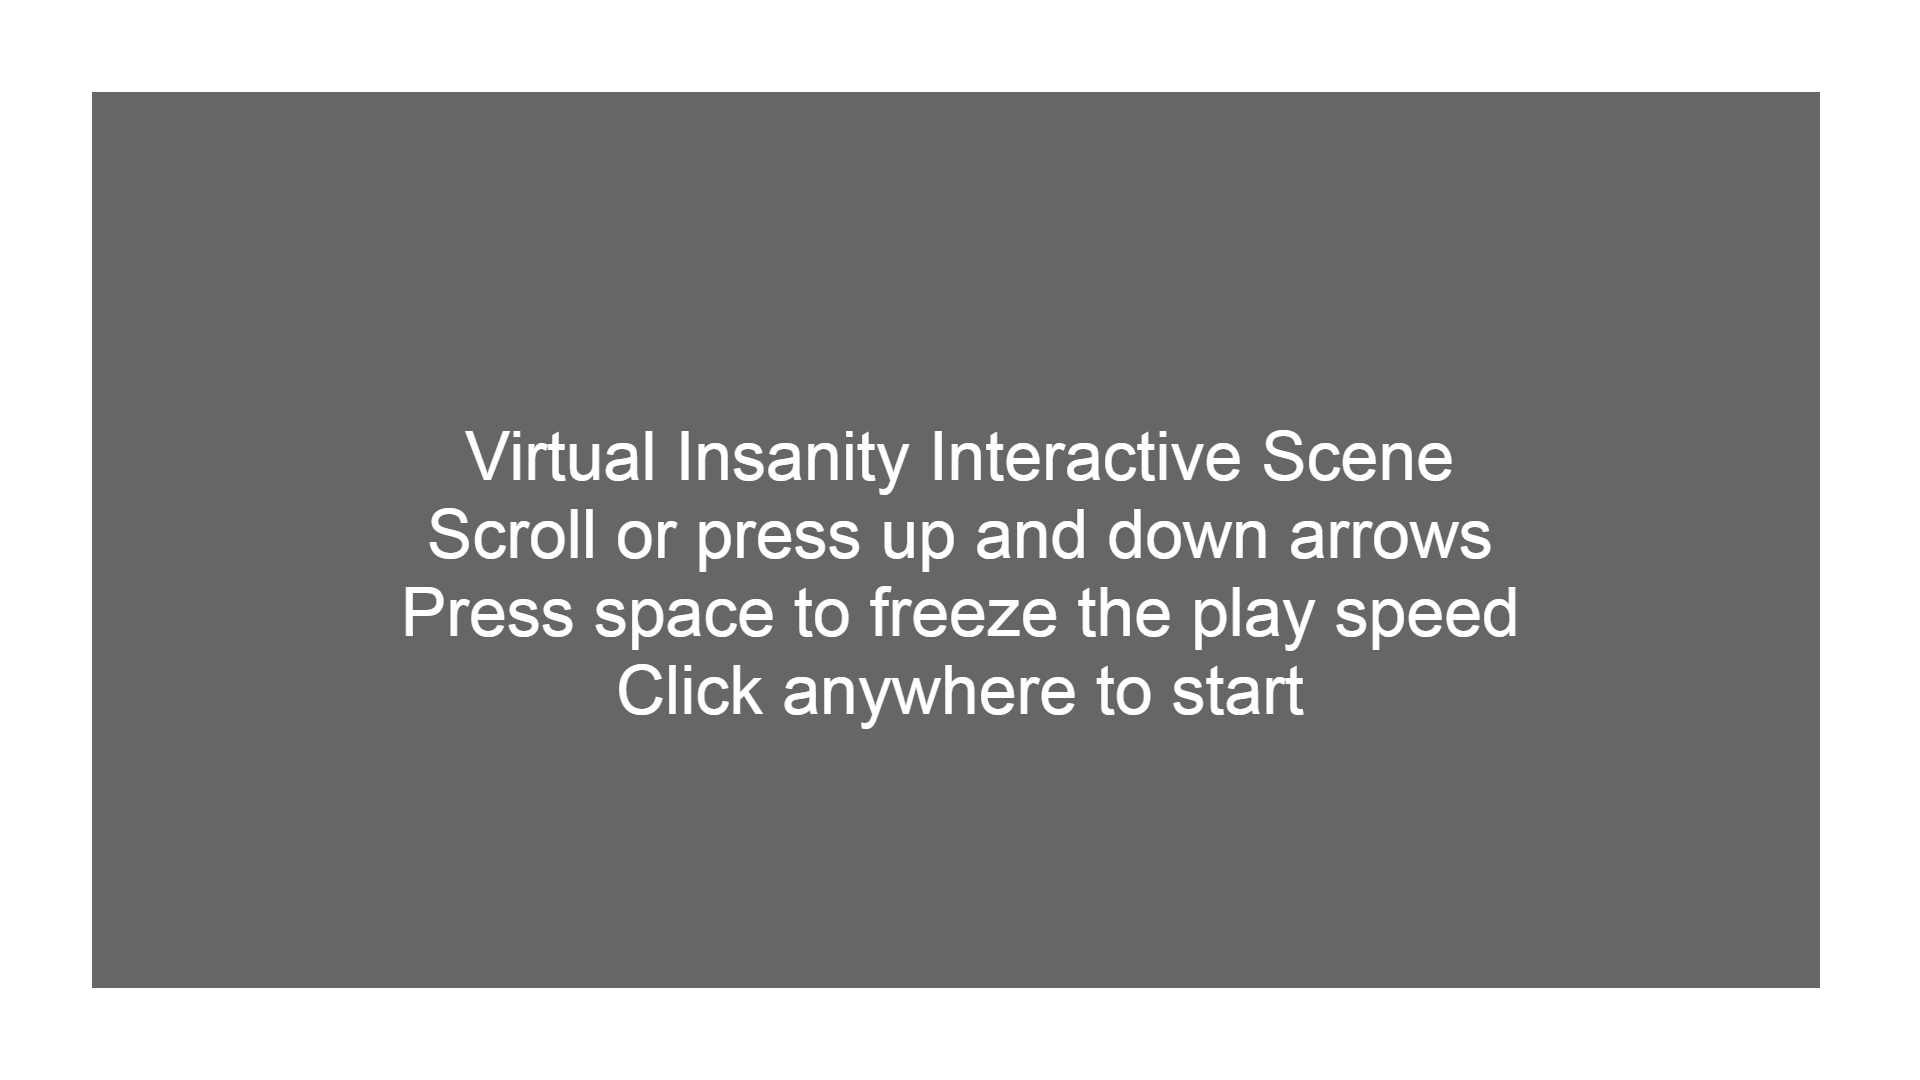
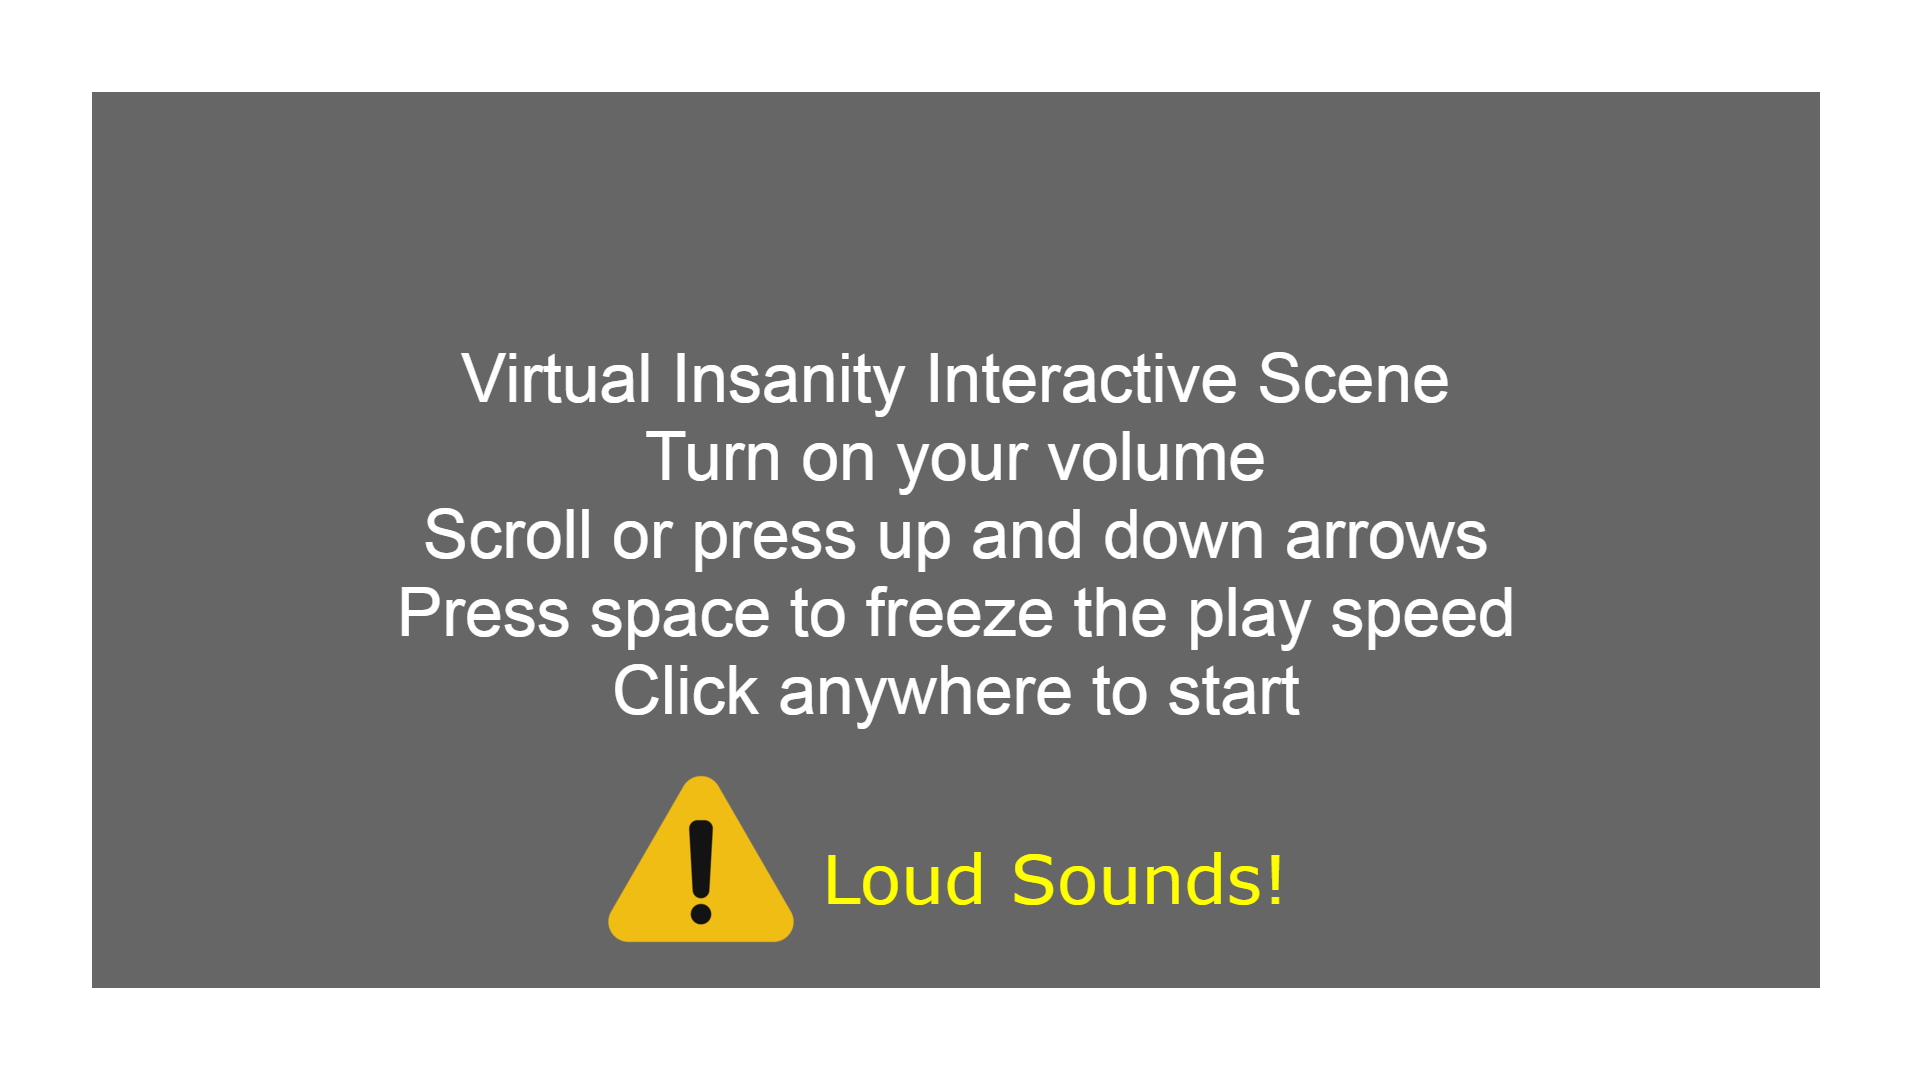
Fixed up the sketch and changed the start screen image.

Changed region(s): [[0.2188, 0.3056, 0.7812, 0.5194], [0.1875, 0.55, 0.8125, 0.6722], [0.3125, 0.7028, 0.6875, 0.8861]]

diff --git a/interactivescene/sketch.js b/interactivescene/sketch.js
@@ -4,8 +4,9 @@
 //
 // Extra for Experts:
 // - using the mouse wheel as input
-// - uses p5.sound to play music, and change the rate
+// - uses p5.sound to play music rate
 
+// Setting all variables
 let x;
 let y;
 let r;
@@ -13,20 +14,22 @@ let tx;
 let ty;
 let tr;
 let music;
-let place;
-let tplace;
-let ttplace;
+let place = 0;
+let tplace = 0;
+let ttplace = 0;
 let bg;
 let man;
 let started = false;
 let startbg;
 let frozen = false;
-let playspeed;
+let playspeed = 0;
 
+// Load the music
 function preload() {
   music = loadSound("music.mp3");
 }
 
+// Set additional variables, and create the canvas
 function setup() {
   music = loadSound("music.mp3");
   createCanvas(windowWidth, windowHeight);
@@ -41,12 +44,14 @@ function setup() {
   tr = r;
 }
 
+// Draw loop links to functions
 function draw() {
-  musicRate();
   displayImages();
-  smoothVariableChange();
-  arrowKeySlider();
-  musicRate();
+  if (started) {
+    musicRate();
+    arrowKeySlider();
+    smoothVariableChange();
+  }
 }
 
 // Use the scroll wheel to move the man and change the music speed
@@ -71,9 +76,11 @@ function mouseWheel(event) {
 
 // Start the scene
 function mouseClicked() {
-  started = true;
-  music.loop();
-  music.rate(0);
+  if (!started){
+    started = true;
+    music.loop();
+    music.rate(0);
+  }
 }
 
 // Display the man, background, and start screen
@@ -127,7 +134,7 @@ function keyPressed (event){
 // Change the speed of the music, unless the speed is frozen, and 
 function musicRate() {
   if (!frozen) {
-    playspeed = (tplace-place)/50;
+    playspeed = (tplace-place)/50;  
   }
   music.rate(playspeed);
 }
